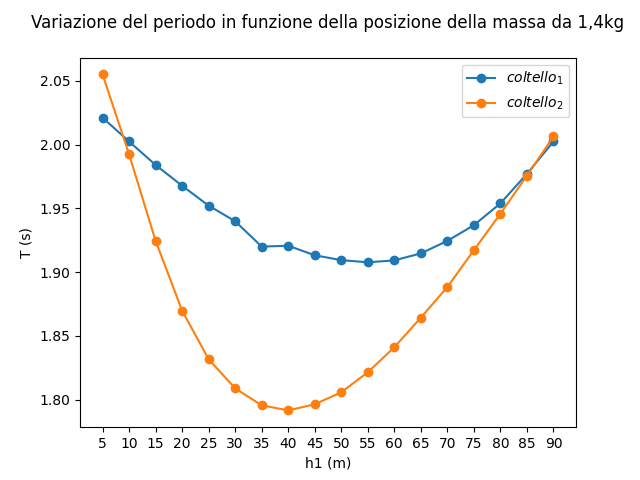
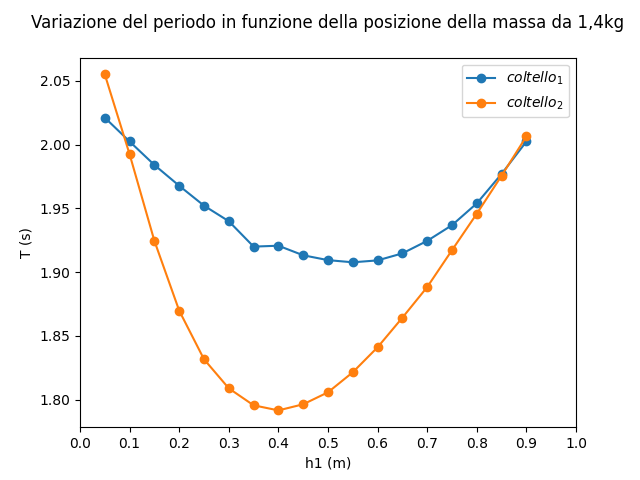
check sigmag in caduta libera + fix

diff --git a/KATER/PYTHON/caduta_libera.py b/KATER/PYTHON/caduta_libera.py
@@ -13,15 +13,15 @@ dir_path = os.path.dirname(os.path.realpath(__file__))
 FILE = dir_path + '/../CSV/' + 'caduta_libera.csv'
 fr = pd.read_csv(FILE)
 
-h = np.array(fr['h'])*0.01 + 0.004 + 0.009 - 0.016
-t = np.array(fr['AVG t']) * 0.001
+h = np.array(fr['h'])*0.01 + 0.004 + 0.009 - 0.016 # m con correzioni per altezza
+t = np.array(fr['AVG t']) * 0.001 # media e poi messi in secondi
 
-columns = list(fr.columns[1:11])
+columns = list(fr.columns[1:11]) # metodo per caricare i dati male ma almeno meno elenchi
 buffer_std = []
 for i in range(0,len(h)):
     buffer = []
     for c in columns:
-        buffer.append(fr[c][i] * 0.001)
+        buffer.append(fr[c][i] * 0.001) 
     buffer_std.append(dev_std(np.array(buffer,dtype=np.float64)))
 
 sigmaYmisurati = np.round(np.array(buffer_std,dtype=np.float64),4)
@@ -29,17 +29,9 @@ sigmaYmisurati = np.round(np.array(buffer_std,dtype=np.float64),4)
 sigmaY_propagati = 2*sigmaYmisurati*t
 sigmayy = np.mean(sigmaY_propagati)
 
-# parabola tempo e h
-# plt.title("altezza(m) - tempo(s)")
-# plt.errorbar(h,t,fmt='o-',yerr=sigmaY_propagati,ecolor='black',linewidth=3,color="blue")
-# plt.xticks(np.round(h,2),rotation=40)
-# plt.show()
-
-
-#r = RettaInterpolata(h,t**2, sigmayy)
-r = RettaInterpolata(h,t**2)
+r = RettaInterpolata(h,t**2, 0.001)
 print(r)
-plt.title("interpolazione $h_1 - t^{2}$")
+plt.title("interpolazione: $h_1 - t^{2}$")
 plt.plot(r.best_x,r.best_y)
 plt.errorbar(r.X,r.Y,fmt='o',yerr=r.sigmaY,color="red",ecolor="black",capsize=5)
 plt.xticks(np.round(h,2))
@@ -48,15 +40,9 @@ plt.ylabel('$t^{2}\quad(s)$')
 plt.show()
 
 g = 2/r.B
-sigmag = g * (r.sigmaB / r.B)
+sigmag = g * (r.sigmaB / (r.B**2))
 
 print('valore con t sulle y',np.round(g,3),np.round(sigmag,3))
-
-r = RettaInterpolata(t**2,h)
-g = 2*r.B
-sigmag = r.sigmaB * 2
-
-print('valore con t sulle x',np.round(g,3),np.round(sigmag,3))
 
 
 

diff --git a/KATER/PYTHON/parabole_parte_(1)_studio_periodo.py b/KATER/PYTHON/parabole_parte_(1)_studio_periodo.py
@@ -8,7 +8,7 @@ dir_path = os.path.dirname(os.path.realpath(__file__))
 FILE = dir_path + '/../CSV/' + 'parabole.csv'
 fr = pd.read_csv(FILE)
 
-d = np.array(fr['d1(cm)'])
+d = np.array(fr['d1(cm)']) * 0.01
 
 t1 = np.array(fr['t1'])
 t2 = np.array(fr['t2'])
@@ -17,7 +17,7 @@ plt.title('Variazione del periodo in funzione della posizione della massa da 1,4
 plt.plot(d,t1,'o-',label="$coltello_1$")
 plt.plot(d,t2,'o-',label='$coltello_2$')
 plt.legend()
-plt.xticks(d)
+plt.xticks(np.linspace(0,1,11))
 plt.ylabel('T (s)')
 plt.xlabel('h1 (m)')
 plt.show()

diff --git a/KATER/PYTHON/misure_fini_calcolo_G_(1).py b/KATER/PYTHON/misure_fini_calcolo_G_(1).py
@@ -86,7 +86,7 @@ sigmaB1B2 = np.sqrt(sigmaB1**2+sigmaB2**2)
 sigmax = np.sqrt((sigmaA1A2/(A2-A1))**2 + (sigmaB1B2/(B1-B2)**2)) * x
 sigmaProdotto = np.sqrt((sigmax/x)**2 + (sigmaB1/B1)**2) * B1 * x
 sigmaT = np.sqrt(sigmaProdotto**2+sigmaA1**2)
-sigmag = 2 * sigmaT
+sigmag = 2 * sigmaT * T1
 
 print("T: ",np.round(T1,2),"±",np.round(sigmaT,2))
 print("g: ",np.round(g,2),"±",np.round(sigmag,2))
